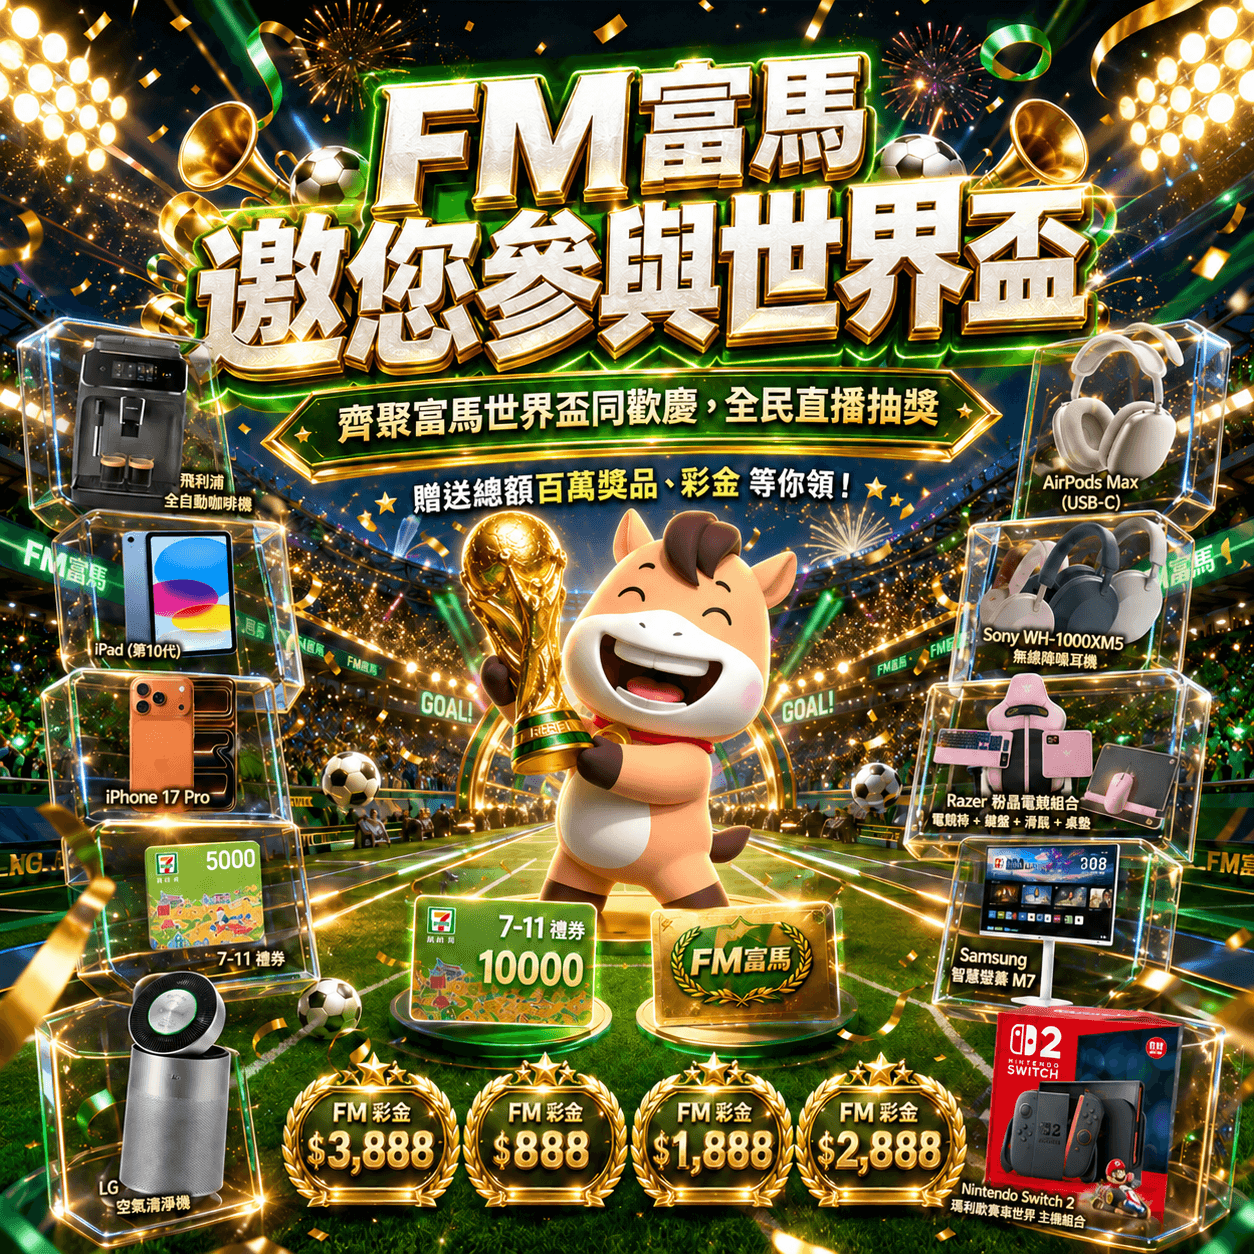
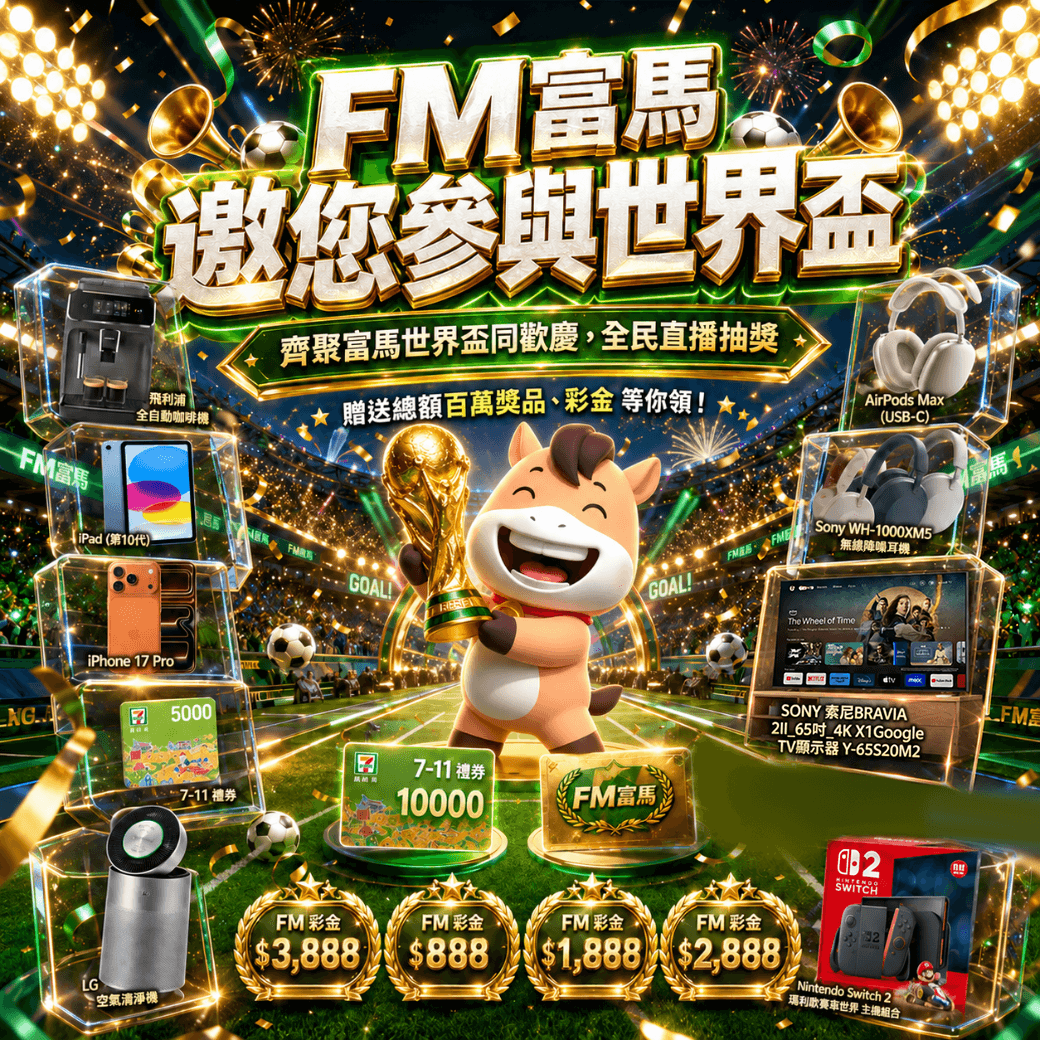
fix: 修改產品項目

diff --git a/page05.html b/page05.html
@@ -587,8 +587,8 @@
   </div>
 
   <picture>
-    <source media="(max-width: 820px)" srcset="./assets/page05_mb.png">
-    <img class="banner" src="./assets/page05.png" alt="">
+    <source media="(max-width: 820px)" srcset="./assets/page05_mb.png?v=0601">
+    <img class="banner" src="./assets/page05.png?v=0601" alt="">
   </picture>
 
   <main class="page">
@@ -598,7 +598,7 @@
   <script>
     const prizes = [
       { name:"iphone 17 pro max 256g",           qty:5,  price:43900,  total:219500, img:"./assets/iphone17.webp" },
-      { name:"RAZER 雷蛇x BLACKPINK 聯名套組－Enki X電競椅＋ORNATA V3 TKL鍵盤＋DeathAdder Essential滑鼠＋Gigantus V2鼠墊", qty:5, price:24000, total:120000, img:"./assets/razer.webp" },
+      { name:"SONY 索尼BRAVIA 2II_65吋_ 4K X1Google TV顯示器 Y-65S20M2", qty:5, price:24000, total:120000, img:"./assets/razer.png?v=0601" },
       { name:"Apple 蘋果AirPods Max 2",           qty:5,  price:19000,  total:95000,  img:"./assets/airpods_max2.webp" },
       { name:"LG 樂金 寵物版加強淨化循環扇空氣清淨機（PuriCare360°/AS651DSS0/過敏源剋星）", qty:5, price:16900, total:84500, img:"./assets/LG.webp" },
       { name:"Nintendo Switch 2 (NS2) 瑪利歐賽車世界 主機組合", qty:5, price:16000, total:80000, img:"./assets/switch2.webp" },